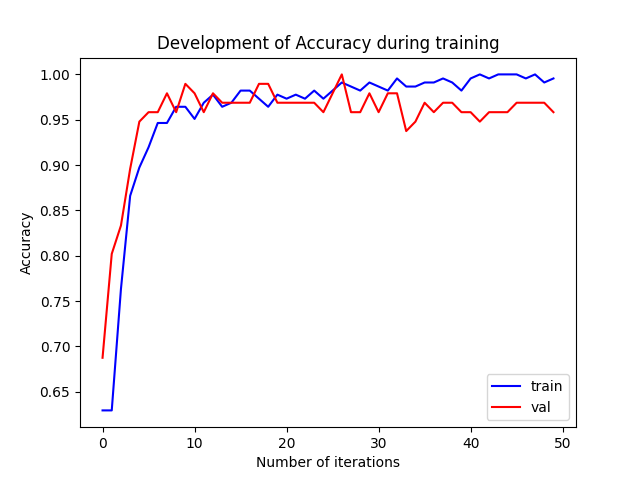
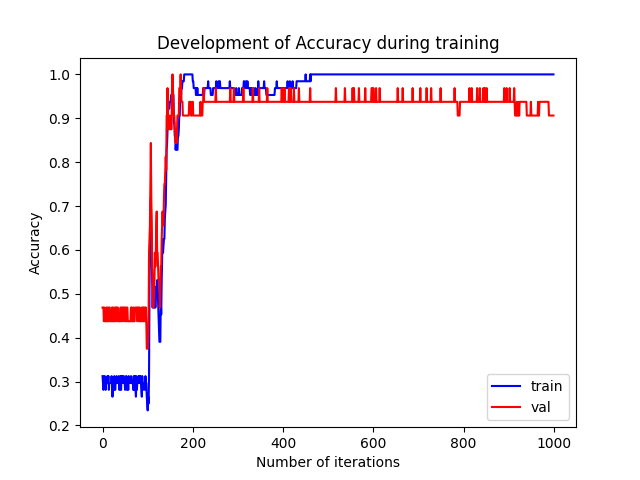
Fixed SoftMax, CrossEntropyLoss. Added script of multiclass classification on fisher's iris dataset.

diff --git a/tests/test_iris.py b/tests/test_iris.py
@@ -1,30 +1,28 @@
 import argparse
 import numpy as np
-import pandas as pd
 
+from sklearn.preprocessing import OneHotEncoder
+from sklearn.datasets import load_iris
 from sklearn.linear_model import LogisticRegression
 from sklearn.neural_network import MLPClassifier
 
-from src.plots import make_learning_curves
-from src.tools import load, save, LabelEncoder, StandartScaler, most_correlated_features
-from src.nn_tools import seed_everything, init_weights, dataloader, check_best_model, threshold_prediction, split_to_train_val_test
-from src.layers import Dense
-from src.losses import BinaryCrossEntropyLoss
-from src.activations import ReLU, Sigmoid
-from src.optimizers import SGD, Momentum, RMSProp, Adam
 from src.model import Model
+from src.layers import Dense
+from src.activations import ReLU, SoftMax
+from src.losses import CrossEntropyLoss
+from src.optimizers import SGD, Momentum, RMSProp, Adam
+from src.nn_tools import split_to_train_val_test, seed_everything, init_weights, threshold_prediction, dataloader, \
+    check_best_model, clip_gradients
+from src.plots import make_learning_curves
 
 
 def parse_args() -> dict:
     parser = argparse.ArgumentParser()
     parser.add_argument('--seed', default=42)
-    parser.add_argument('--preprocess', default='no')
-    parser.add_argument('--learning_rate', default=0.01)
-    parser.add_argument('--epochs', default=50)
+    parser.add_argument('--learning_rate', default=0.00001)
+    parser.add_argument('--epochs', default=1000)
     parser.add_argument('--esr', default=10)
-    parser.add_argument('--clip_grad', default=3.)
     parser.add_argument('--batchsize', default=32)
-    parser.add_argument('--dataset_path', default='../data/breast_cancer_dataset.csv')
     parser.add_argument('--test_size', default=0.33)
     parser.add_argument('--save_weights_path', default='../tmp/weights.pkl')
     parser.add_argument('--train_data_path', default='../tmp/train.pkl')
@@ -37,68 +35,36 @@ def parse_args() -> dict:
 if __name__ == '__main__':
     args = parse_args()
     seed_everything(args['seed'])
+    encoder = OneHotEncoder(sparse=False)
+    x, y = load_iris(return_X_y=True)
 
-    if args['preprocess'] == 'yes':
-        dataset = pd.read_csv(args['dataset_path'])
-        encoder = LabelEncoder()
-        scaler = StandartScaler()
+    X_train, y_train, X_val, y_val, X_test, y_test = split_to_train_val_test(x, y, args['test_size'], args['seed'])
 
-        dataset = pd.DataFrame(data=dataset.to_numpy(), columns=[str(i + 1) for i in range(dataset.shape[1])])
-
-        labels = encoder.fit_transform(dataset['2'])
-        dataset.drop(columns=['1', '2'], inplace=True, axis=1)
-        dataset = dataset.astype(np.float64)
-        dataset['labels'] = labels
-
-        drop_features = most_correlated_features(dataset.drop(['labels'], axis=1), 0.9)
-
-        print(dataset.describe().to_string())
-        print('\nMost correlated features (over 0.9) - ', drop_features)
-        print('\nBefore removing trash - ', dataset.shape)
-        dataset.drop(columns=drop_features, axis=1, inplace=True)
-        dataset = dataset.dropna()
-        print('After removing trash - ', dataset.shape)
-
-        y = dataset['labels']
-        x = dataset.drop(columns=['labels'], axis=1)
-
-        x = scaler.fit_transform(x)
-
-        X_train, y_train, X_val, y_val, X_test, y_test = split_to_train_val_test(x, y, args['test_size'], args['seed'])
-
-        save((X_train, y_train), args['train_data_path'])
-        save((X_val, y_val), args['val_data_path'])
-        save((X_test, y_test), args['test_data_path'])
-        save(encoder, '../tmp/encoder.pkl')
-
-        print('\nDataset prepossessing finished.')
-
-    else:
-        X_train, y_train = load(args['train_data_path'])
-        X_val, y_val = load(args['val_data_path'])
-        X_test, y_test = load(args['test_data_path'])
+    y_train = encoder.fit_transform(y_train[:, np.newaxis])
+    y_val = encoder.transform(y_val[:, np.newaxis])
+    y_test = encoder.transform(y_test[:, np.newaxis])
 
     model = Model()
-    model.add_layer(Dense(X_train.shape[1], 20))
+    model.add_layer(Dense(X_train.shape[1], 10))
     model.add_layer(ReLU())
-    model.add_layer(Dense(20, 50))
+    model.add_layer(Dense(10, 10))
     model.add_layer(ReLU())
-    model.add_layer(Dense(50, 10))
+    model.add_layer(Dense(10, 5))
     model.add_layer(ReLU())
-    model.add_layer(Dense(10, 1))
-    model.add_layer(Sigmoid())
+    model.add_layer(Dense(5, 3))
+    model.add_layer(SoftMax())
 
     init_weights(model.params, 'kaiming_normal')
 
-    criterion = BinaryCrossEntropyLoss()
-    optimizer = SGD(model.params, float(args['learning_rate']))
+    criterion = CrossEntropyLoss()
+    optimizer = Momentum(model.params, float(args['learning_rate']))
+
+    print(f'Selected params: {args}')
 
     train_acc_by_epoch = []
     val_acc_by_epoch = []
     train_loss_by_epoch = []
     val_loss_by_epoch = []
-
-    print(f'Selected params: {args}')
 
     for epoch in range(int(args['epochs'])):
         train_loss_by_batch = []
@@ -107,12 +73,12 @@ if __name__ == '__main__':
         val_acc_by_batch = []
 
         model.train_mode()
-        for x_batch_train, y_batch_train in dataloader(X_train.to_numpy(), y_train.to_numpy(),
+        for x_batch_train, y_batch_train in dataloader(X_train, y_train,
                                                        batchsize=int(args['batchsize']),
                                                        shuffle=True):
             preds = model.forward(x_batch_train)
             loss = criterion(y_batch_train, preds)
-            acc = np.mean(threshold_prediction(preds)[:, 0] == y_batch_train)
+            acc = np.mean(np.argmax(preds, axis=1) == np.argmax(y_batch_train, axis=1))
             train_loss_by_batch.append(loss)
             train_acc_by_batch.append(acc)
             criterion.backward(model, y_batch_train, preds)
@@ -120,12 +86,12 @@ if __name__ == '__main__':
             model.clear_cache()
 
         model.test_mode()
-        for x_batch_val, y_batch_val in dataloader(X_val.to_numpy(), y_val.to_numpy(),
+        for x_batch_val, y_batch_val in dataloader(X_val, y_val,
                                                    batchsize=int(args['batchsize']),
                                                    shuffle=True):
             preds = model.forward(x_batch_val)
             loss = criterion(y_batch_val, preds)
-            acc = np.mean(threshold_prediction(preds)[:, 0] == y_batch_val)
+            acc = np.mean(np.argmax(preds, axis=1) == np.argmax(y_batch_val, axis=1))
             val_loss_by_batch.append(loss)
             val_acc_by_batch.append(acc)
 
@@ -158,10 +124,10 @@ if __name__ == '__main__':
     print('=' * 20 + '\n')
 
     model.test_mode()
-    test_acc = np.mean(threshold_prediction(model.forward(X_test.to_numpy()))[:, 0] == y_test)
-    lr = LogisticRegression(random_state=args['seed']).fit(X_train, y_train)
-    mlp = MLPClassifier(random_state=args['seed'], max_iter=1000, hidden_layer_sizes=(20, 50)).fit(X_train, y_train)
+    test_acc = np.mean(np.argmax(model.forward(X_test), axis=1) == np.argmax(y_test, axis=1))
+    lr = LogisticRegression(random_state=args['seed']).fit(X_train, np.argmax(y_train, axis=1))
+    mlp = MLPClassifier(random_state=args['seed'], max_iter=1000, hidden_layer_sizes=(20, 50)).fit(X_train, np.argmax(y_train, axis=1))
 
     print('My mlp model accuracy - ', round(test_acc, 4))
-    print('Sklearn logistic regression accuracy - ', round(np.mean(lr.predict(X_test) == y_test), 4))
-    print('Sklearn mlp accuracy - ', round(np.mean(mlp.predict(X_test) == y_test), 4))
+    print('Sklearn logistic regression accuracy - ', round(np.mean(lr.predict(X_test) == np.argmax(y_test, axis=1)), 4))
+    print('Sklearn mlp accuracy - ', round(np.mean(mlp.predict(X_test) == np.argmax(y_test, axis=1)), 4))

diff --git a/src/losses.py b/src/losses.py
@@ -14,6 +14,12 @@ class Loss:
 
 
 class BinaryCrossEntropyLoss(Loss):
+    """
+    Loss for binary classification
+
+    y_pred: [0.5, ..., 0.1] | shape - (probabilities,)
+    y_true: [0.5, ..., 0.1] | shape - (probabilities,)
+    """
     def __init__(self):
         super().__init__()
 
@@ -29,20 +35,23 @@ class BinaryCrossEntropyLoss(Loss):
 
 
 class CrossEntropyLoss(Loss):
+    """
+    Loss for multiclass classification
+
+    y_true: [[0, 0, 1], [...], [...]] | one hot encoded labels | shape - (batch_size, num_classes)
+    y_pred: [[0.1, 0.3, 0.6], [...], [...]] | shape - (batch_size, num_classes)
+    """
     def __init__(self):
         super().__init__()
 
     def __call__(self, y_true: np.ndarray, y_pred: np.ndarray):
-        target = y_true[:, np.newaxis]
-        if target.shape[1] == 1:
-            target = np.append(1 - target, target, axis=1)
         output = np.clip(y_pred, self.eps, 1. - self.eps)
         output /= output.sum(axis=1)[:, np.newaxis]
-        loss = -(target * np.log(output)).sum(axis=1)
+        loss = -(y_true * np.log(output)).sum(axis=1)
         return np.mean(loss)
 
     def backward(self, model: Model, y_true: np.ndarray, y_pred: np.ndarray):
-        loss_grad = y_pred - y_true[:, np.newaxis]
+        loss_grad = y_pred - y_true
         model.backward(model.forward_list, loss_grad)
 
 

diff --git a/src/nn_tools.py b/src/nn_tools.py
@@ -1,6 +1,7 @@
 import os
 import random
 import numpy as np
+from sklearn.model_selection import train_test_split
 
 
 class EarlyStopping:
@@ -73,3 +74,11 @@ def check_best_model(metric_list: list, current_metric: float) -> bool:
 
 def threshold_prediction(array: np.ndarray, thrs: float = 0.5):
     return (array > thrs).astype(int)
+
+
+def split_to_train_val_test(x, y, test_size, seed):
+    X_train_full, X_test, y_train_full, y_test = train_test_split(x, y, test_size=float(test_size),
+                                                                  random_state=int(seed))
+    X_train, X_val, y_train, y_val = train_test_split(X_train_full, y_train_full, test_size=float(test_size),
+                                                      random_state=int(seed))
+    return X_train, y_train, X_val, y_val, X_test, y_test

diff --git a/src/activations.py b/src/activations.py
@@ -43,9 +43,10 @@ class SoftMax(Layer):
         super().__init__()
 
     def forward(self, input: np.ndarray, mode: str = 'train') -> np.ndarray:
-        e_x = np.exp(input - np.max(input, axis=1)[:, np.newaxis])
-        div = np.sum(e_x, axis=1)[:, np.newaxis]
-        return e_x / div
+        exp = np.exp(input - np.max(input))
+        for i in range(len(input)):
+            exp[i] /= np.sum(exp[i])
+        return exp
 
     def backward(self, input: np.ndarray, grad_output: np.ndarray) -> np.ndarray:
         p = self.forward(input)
